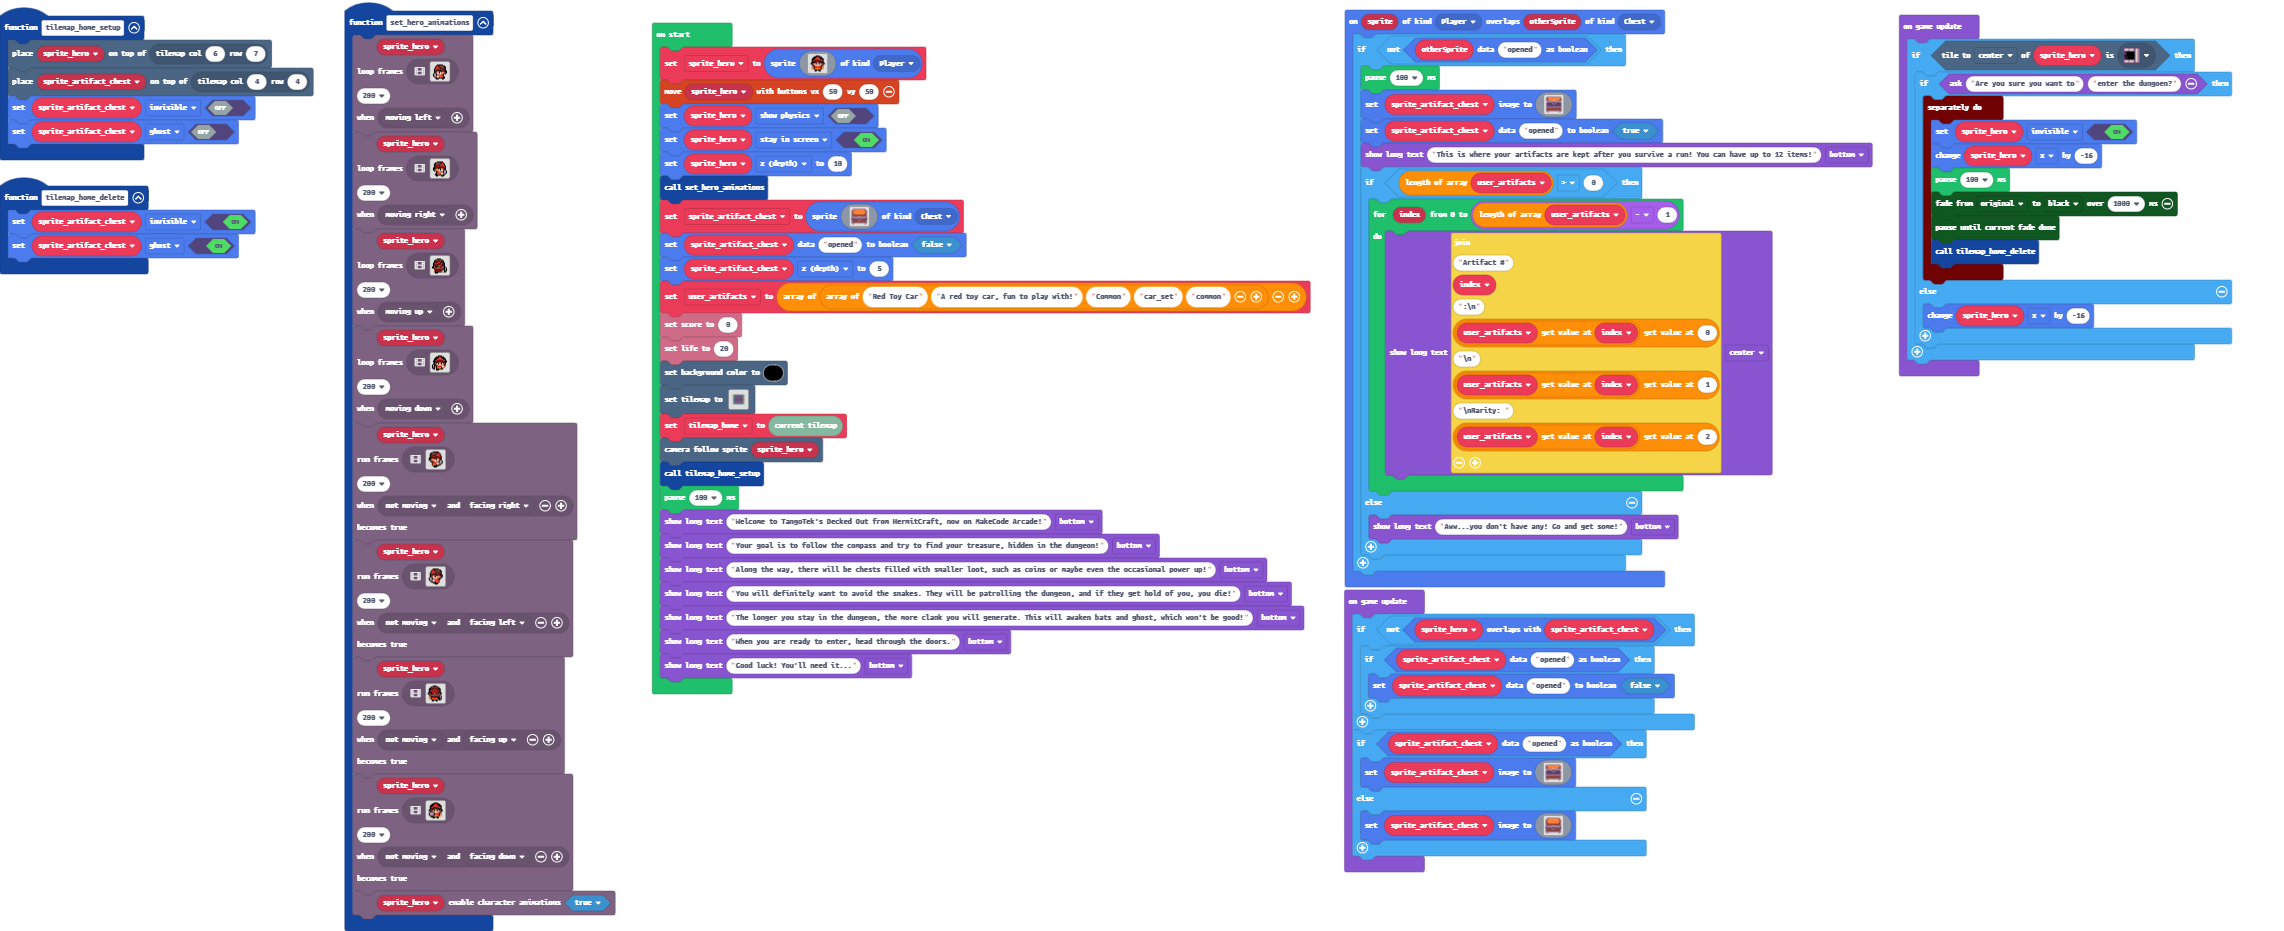
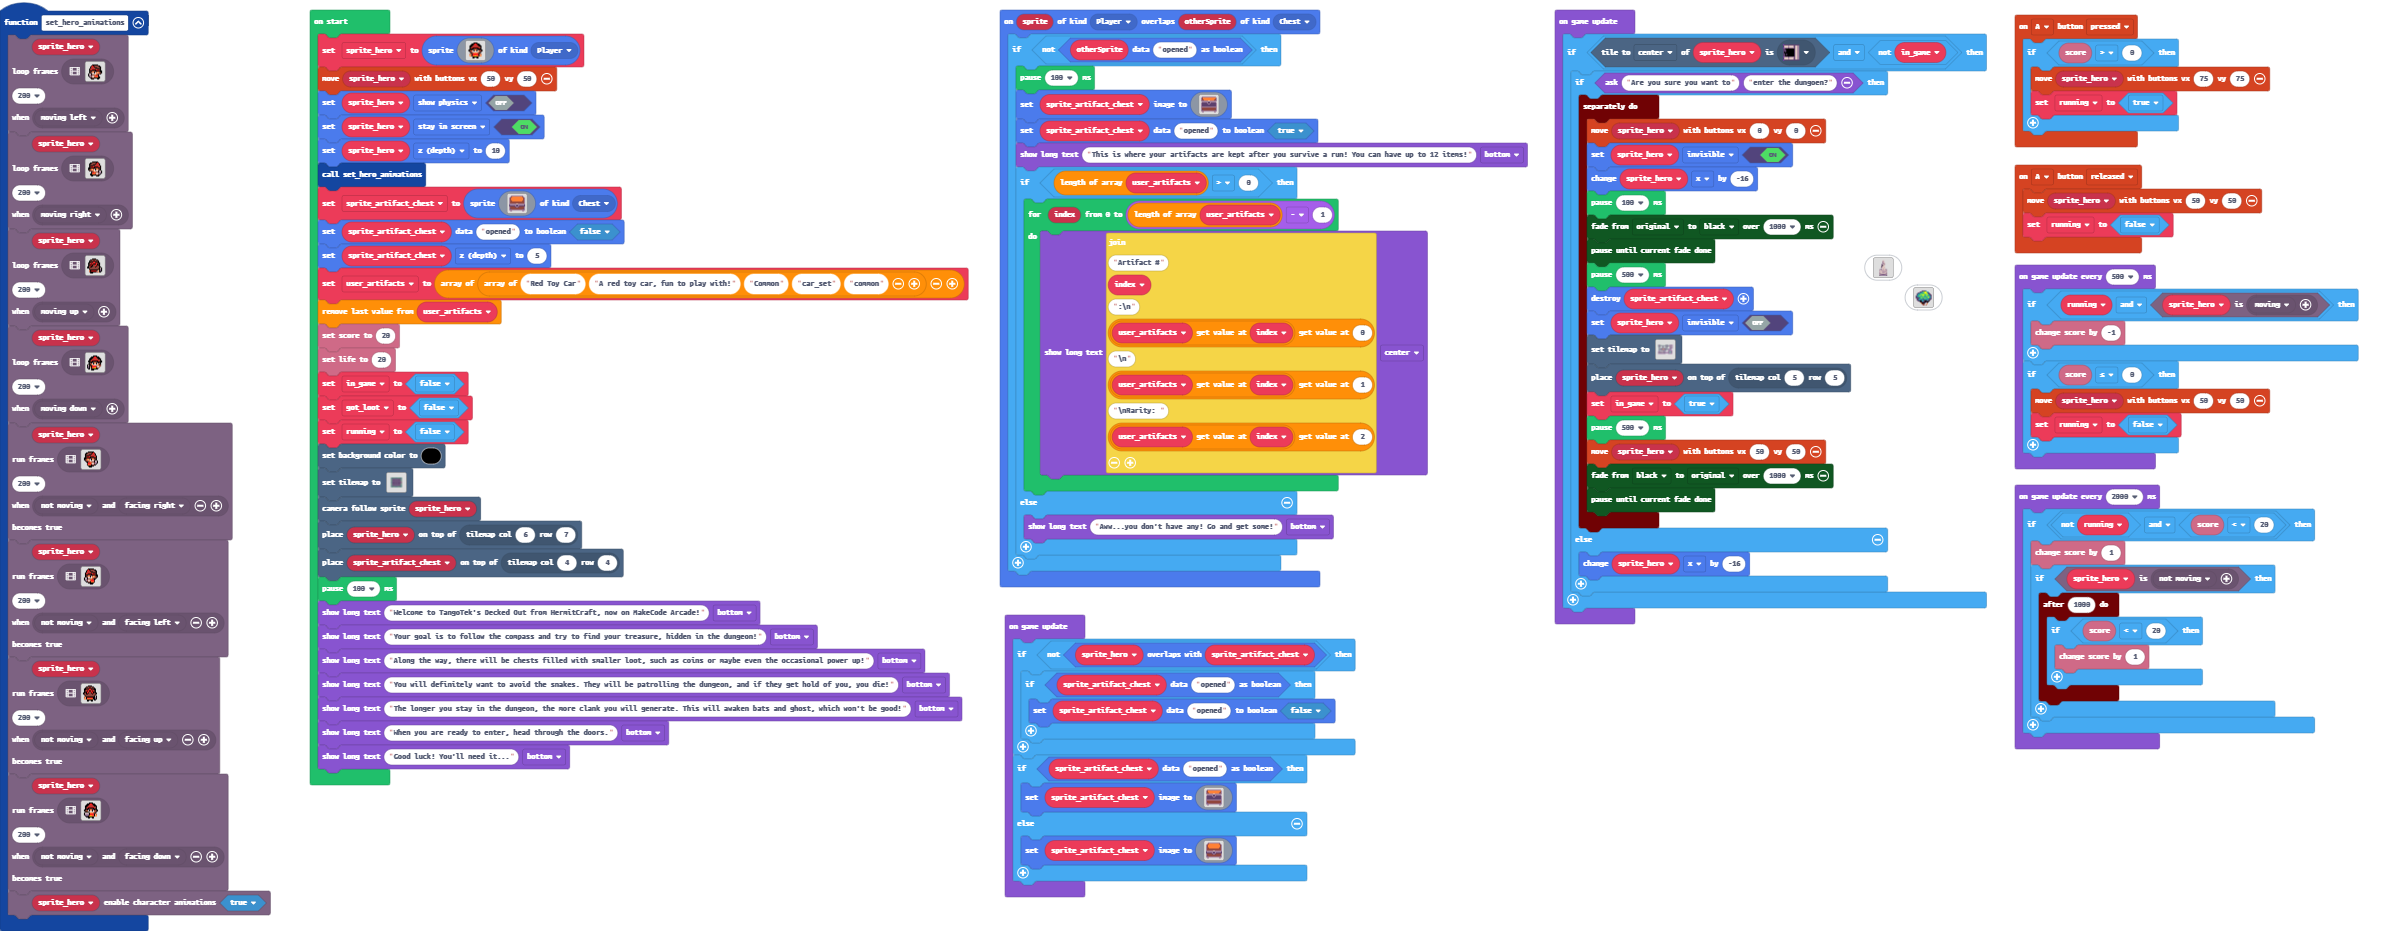
Finished dungeon map

diff --git a/main.ts b/main.ts
@@ -257,10 +257,12 @@ function set_hero_animations () {
     )
     character.setCharacterAnimationsEnabled(sprite_hero, true)
 }
-function tilemap_home_delete () {
-    sprite_artifact_chest.setFlag(SpriteFlag.Invisible, true)
-    sprite_artifact_chest.setFlag(SpriteFlag.Ghost, true)
-}
+controller.A.onEvent(ControllerButtonEvent.Pressed, function () {
+    if (info.score() > 0) {
+        controller.moveSprite(sprite_hero, 75, 75)
+        running = true
+    }
+})
 sprites.onOverlap(SpriteKind.Player, SpriteKind.Chest, function (sprite, otherSprite) {
     if (!(sprites.readDataBoolean(otherSprite, "opened"))) {
         pause(100)
@@ -293,12 +295,11 @@ sprites.onOverlap(SpriteKind.Player, SpriteKind.Chest, function (sprite, otherSp
         }
     }
 })
-function tilemap_home_setup () {
-    tiles.placeOnTile(sprite_hero, tiles.getTileLocation(6, 7))
-    tiles.placeOnTile(sprite_artifact_chest, tiles.getTileLocation(4, 4))
-    sprite_artifact_chest.setFlag(SpriteFlag.Invisible, false)
-    sprite_artifact_chest.setFlag(SpriteFlag.Ghost, false)
-}
+controller.A.onEvent(ControllerButtonEvent.Released, function () {
+    controller.moveSprite(sprite_hero, 50, 50)
+    running = false
+})
+let running = false
 let user_artifacts: string[][] = []
 let sprite_artifact_chest: Sprite = null
 let sprite_hero: Sprite = null
@@ -346,13 +347,17 @@ sprite_artifact_chest = sprites.create(img`
 sprites.setDataBoolean(sprite_artifact_chest, "opened", false)
 sprite_artifact_chest.z = 5
 user_artifacts = [["Red Toy Car", "A red toy car, fun to play with!", "Common", "car_set", "common"]]
-info.setScore(0)
+user_artifacts.pop()
+info.setScore(20)
 info.setLife(20)
+let in_game = false
+let got_loot = false
+running = false
 scene.setBackgroundColor(15)
 tiles.setTilemap(tilemap`level`)
-let tilemap_home = tiles.getLoadedMap()
 scene.cameraFollowSprite(sprite_hero)
-tilemap_home_setup()
+tiles.placeOnTile(sprite_hero, tiles.getTileLocation(6, 7))
+tiles.placeOnTile(sprite_artifact_chest, tiles.getTileLocation(4, 4))
 pause(100)
 game.showLongText("Welcome to TangoTek's Decked Out from HermitCraft, now on MakeCode Arcade!", DialogLayout.Bottom)
 game.showLongText("Your goal is to follow the compass and try to find your treasure, hidden in the dungeon!", DialogLayout.Bottom)
@@ -362,15 +367,58 @@ game.showLongText("The longer you stay in the dungeon, the more clank you will g
 game.showLongText("When you are ready to enter, head through the doors.", DialogLayout.Bottom)
 game.showLongText("Good luck! You'll need it...", DialogLayout.Bottom)
 game.onUpdate(function () {
-    if (sprite_hero.tileKindAt(TileDirection.Center, sprites.dungeon.doorOpenEast)) {
+    if (sprite_hero.tileKindAt(TileDirection.Center, sprites.dungeon.doorOpenEast) && !(in_game)) {
         if (game.ask("Are you sure you want to", "enter the dungoen?")) {
             timer.background(function () {
+                controller.moveSprite(sprite_hero, 0, 0)
                 sprite_hero.setFlag(SpriteFlag.Invisible, true)
                 sprite_hero.x += -16
                 pause(100)
                 color.startFade(color.originalPalette, color.Black, 1000)
                 color.pauseUntilFadeDone()
-                tilemap_home_delete()
+                pause(500)
+                sprite_artifact_chest.destroy()
+                sprite_hero.setFlag(SpriteFlag.Invisible, false)
[1 lines of base64/hex data omitted]
+                    ................................................
+                    ................................................
+                    ................................................
+                    ................................................
+                    ................................................
+                    ................................................
+                    ................................................
+                    ................................................
+                    ................................................
+                    ................................................
+                    ................................................
+                    ................................................
+                    ................................................
+                    ................................................
+                    ................................................
+                    ................................................
+                    ................................................
+                    ................................................
+                    ................................................
+                    ................................................
+                    ................................................
+                    ................................................
+                    ................................................
+                    ................................................
+                    ................................................
+                    ................................................
+                    ................................................
+                    ................................................
+                    ................................................
+                    ................................................
+                    ................................................
+                    ................................................
+                    `, [myTiles.transparency16,sprites.dungeon.darkGroundCenter,sprites.dungeon.darkGroundNorthWest0,sprites.dungeon.darkGroundNorth,sprites.dungeon.darkGroundNorthEast0,sprites.dungeon.darkGroundEast,sprites.dungeon.darkGroundSouthEast0,sprites.dungeon.darkGroundSouth,sprites.dungeon.darkGroundSouthWest0,sprites.dungeon.darkGroundWest,sprites.dungeon.greenOuterNorthWest,sprites.dungeon.greenOuterNorth0,sprites.dungeon.greenOuterNorth1,sprites.dungeon.greenOuterNorthEast,sprites.dungeon.greenOuterEast0,sprites.dungeon.greenOuterSouthWest,sprites.dungeon.greenOuterSouth1,sprites.dungeon.greenOuterSouth0,sprites.dungeon.greenOuterSouthEast,sprites.dungeon.greenOuterWest0,sprites.dungeon.greenOuterWest1,sprites.dungeon.greenOuterNorth2,sprites.dungeon.greenOuterSouth2,sprites.dungeon.greenOuterEast2,sprites.dungeon.greenOuterWest2,sprites.dungeon.doorLockedNorth,sprites.dungeon.greenInnerNorthWest,sprites.dungeon.greenInnerSouthWest,sprites.dungeon.greenInnerNorthEast,sprites.dungeon.darkGroundNorthEast1,sprites.dungeon.darkGroundNorthWest1,sprites.dungeon.darkGroundSouthWest1,sprites.dungeon.darkGroundSouthEast1,sprites.dungeon.greenOuterEast1,sprites.dungeon.greenInnerSouthEast,sprites.dungeon.purpleOuterWest0,sprites.dungeon.purpleOuterWest1,sprites.dungeon.purpleOuterEast0,sprites.dungeon.purpleOuterEast1,sprites.dungeon.purpleOuterNorth1,sprites.dungeon.purpleInnerNorthWest,sprites.dungeon.purpleInnerSouthEast,sprites.dungeon.purpleInnerSouthWest,sprites.dungeon.purpleOuterNorthWest,sprites.dungeon.purpleOuterSouthEast,sprites.dungeon.purpleOuterSouth0,sprites.dungeon.purpleOuterSouthWest,sprites.dungeon.purpleOuterSouth1,sprites.dungeon.purpleOuterNorth0,sprites.dungeon.purpleOuterNorthEast,sprites.dungeon.purpleInnerNorthEast,sprites.dungeon.purpleOuterNorth2,sprites.dungeon.purpleOuterSouth2,sprites.dungeon.purpleOuterEast2,sprites.dungeon.purpleOuterWest2,sprites.dungeon.hazardLava0,sprites.dungeon.hazardLava1,myTiles.tile1,myTiles.tile3,myTiles.tile4,myTiles.tile6,myTiles.tile7,myTiles.tile8,myTiles.tile9,myTiles.tile10,myTiles.tile11,myTiles.tile12,myTiles.tile13,sprites.castle.tileDarkGrass2,myTiles.tile14,sprites.dungeon.doorClosedNorth,sprites.dungeon.doorClosedWest,sprites.dungeon.doorClosedSouth,sprites.dungeon.doorClosedEast], TileScale.Sixteen))
+                tiles.placeOnTile(sprite_hero, tiles.getTileLocation(5, 5))
+                in_game = true
+                pause(500)
+                controller.moveSprite(sprite_hero, 50, 50)
+                color.startFade(color.Black, color.originalPalette, 1000)
+                color.pauseUntilFadeDone()
             })
         } else {
             sprite_hero.x += -16
@@ -421,5 +469,26 @@ game.onUpdate(function () {
             b b b b b b b b b b b b b b b b 
             . b b . . . . . . . . . . b b . 
             `)
+    }
+})
+game.onUpdateInterval(2000, function () {
+    if (!(running) && info.score() < 20) {
+        info.changeScoreBy(1)
+        if (character.matchesRule(sprite_hero, character.rule(Predicate.NotMoving))) {
+            timer.after(1000, function () {
+                if (info.score() < 20) {
+                    info.changeScoreBy(1)
+                }
+            })
+        }
+    }
+})
+game.onUpdateInterval(500, function () {
+    if (running && character.matchesRule(sprite_hero, character.rule(Predicate.Moving))) {
+        info.changeScoreBy(-1)
+    }
+    if (info.score() <= 0) {
+        controller.moveSprite(sprite_hero, 50, 50)
+        running = false
     }
 })

diff --git a/tilemap.g.ts b/tilemap.g.ts
@@ -6,6 +6,30 @@ namespace myTiles {
     export const tile1 = image.ofBuffer(hex``);
     //% fixedInstance jres blockIdentity=images._tile
     export const tile2 = image.ofBuffer(hex``);
+    //% fixedInstance jres blockIdentity=images._tile
+    export const tile3 = image.ofBuffer(hex``);
+    //% fixedInstance jres blockIdentity=images._tile
+    export const tile4 = image.ofBuffer(hex``);
+    //% fixedInstance jres blockIdentity=images._tile
+    export const tile6 = image.ofBuffer(hex``);
+    //% fixedInstance jres blockIdentity=images._tile
+    export const tile7 = image.ofBuffer(hex``);
+    //% fixedInstance jres blockIdentity=images._tile
+    export const tile8 = image.ofBuffer(hex``);
+    //% fixedInstance jres blockIdentity=images._tile
+    export const tile9 = image.ofBuffer(hex``);
+    //% fixedInstance jres blockIdentity=images._tile
+    export const tile10 = image.ofBuffer(hex``);
+    //% fixedInstance jres blockIdentity=images._tile
+    export const tile11 = image.ofBuffer(hex``);
+    //% fixedInstance jres blockIdentity=images._tile
+    export const tile12 = image.ofBuffer(hex``);
+    //% fixedInstance jres blockIdentity=images._tile
+    export const tile13 = image.ofBuffer(hex``);
+    //% fixedInstance jres blockIdentity=images._tile
+    export const tile5 = image.ofBuffer(hex``);
+    //% fixedInstance jres blockIdentity=images._tile
+    export const tile14 = image.ofBuffer(hex``);
 
     helpers.registerTilemapFactory(function(name: string) {
         switch(helpers.stringTrim(name)) {
